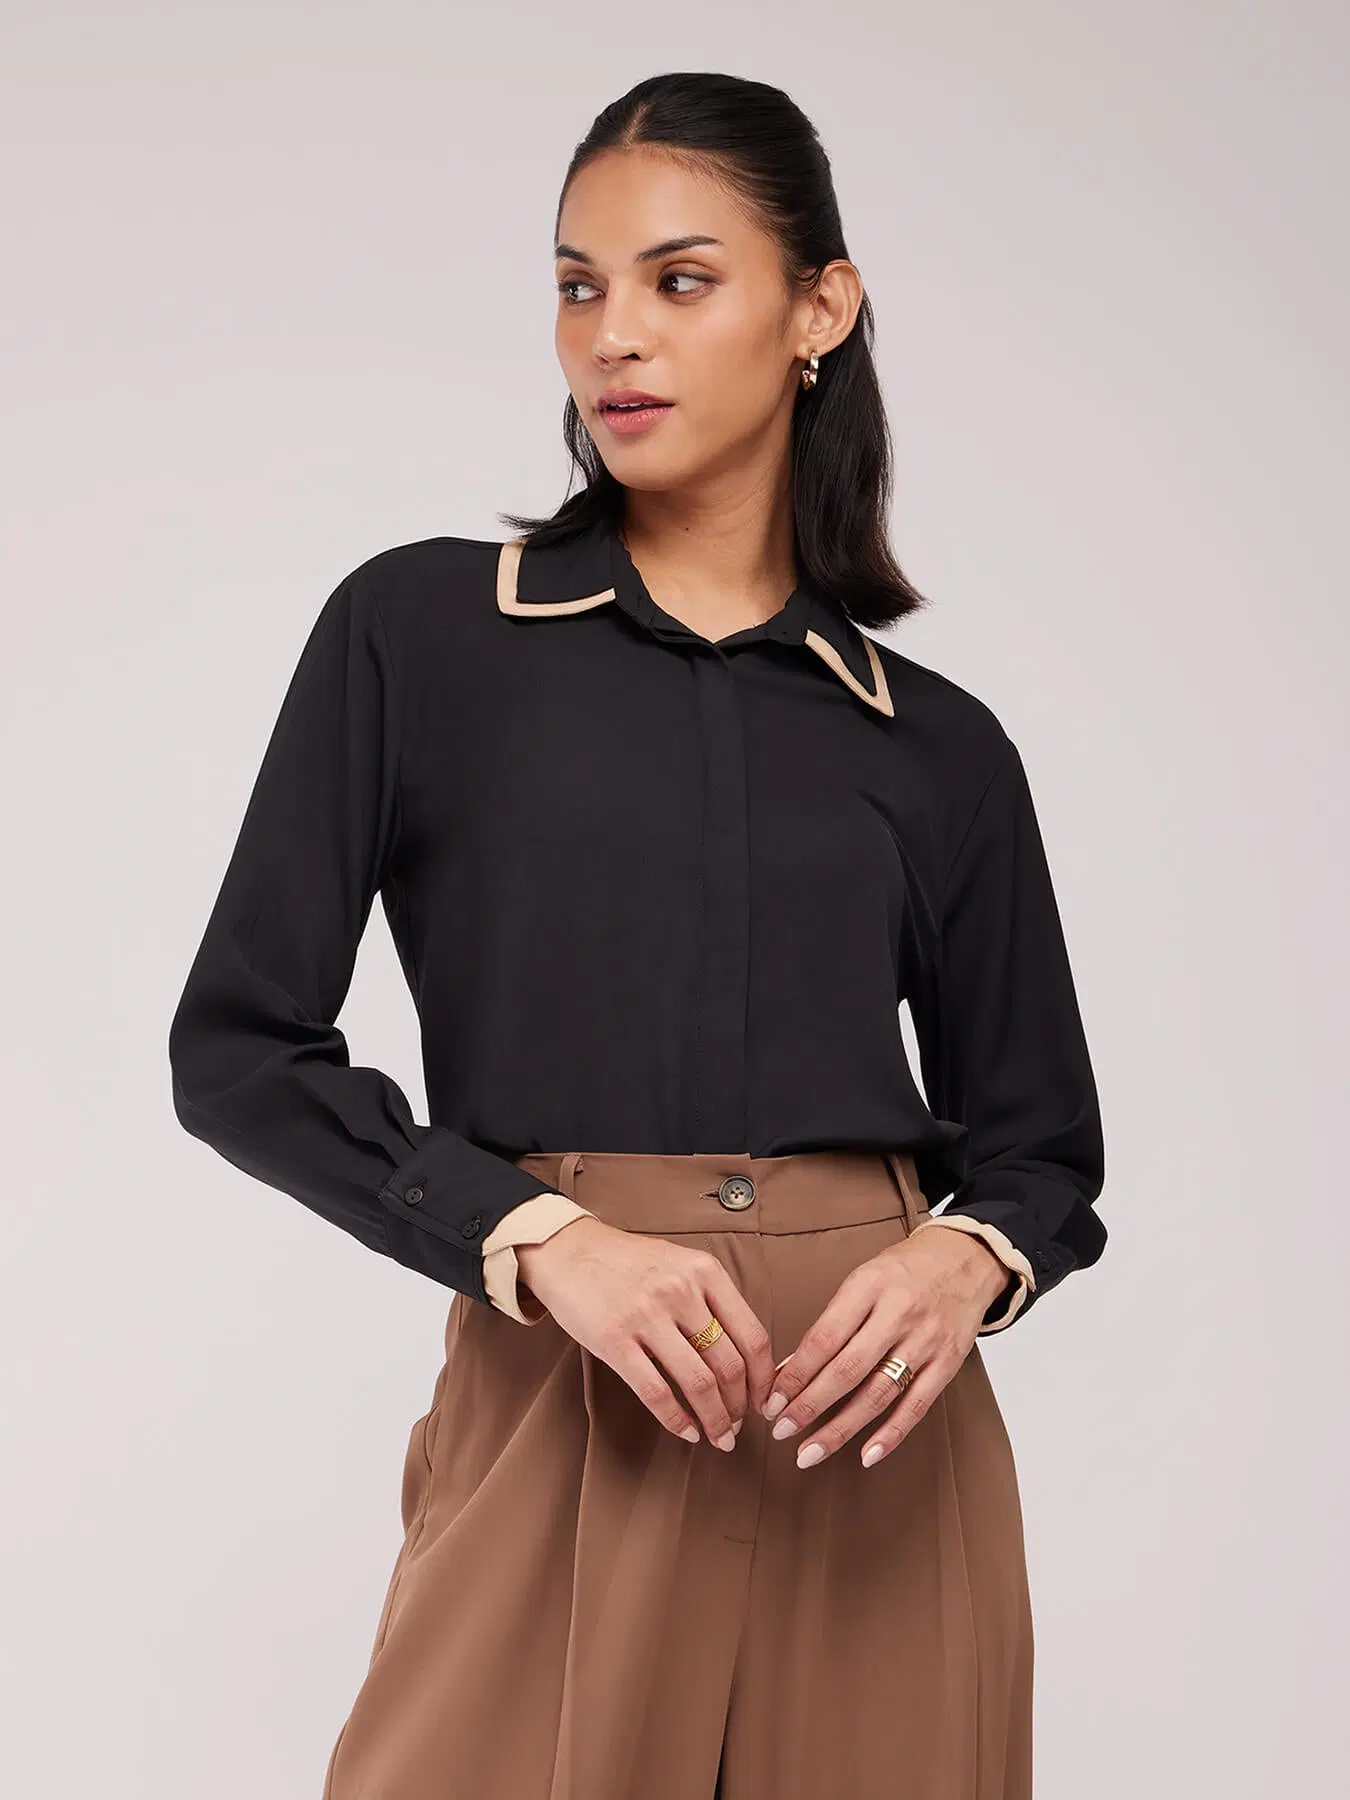
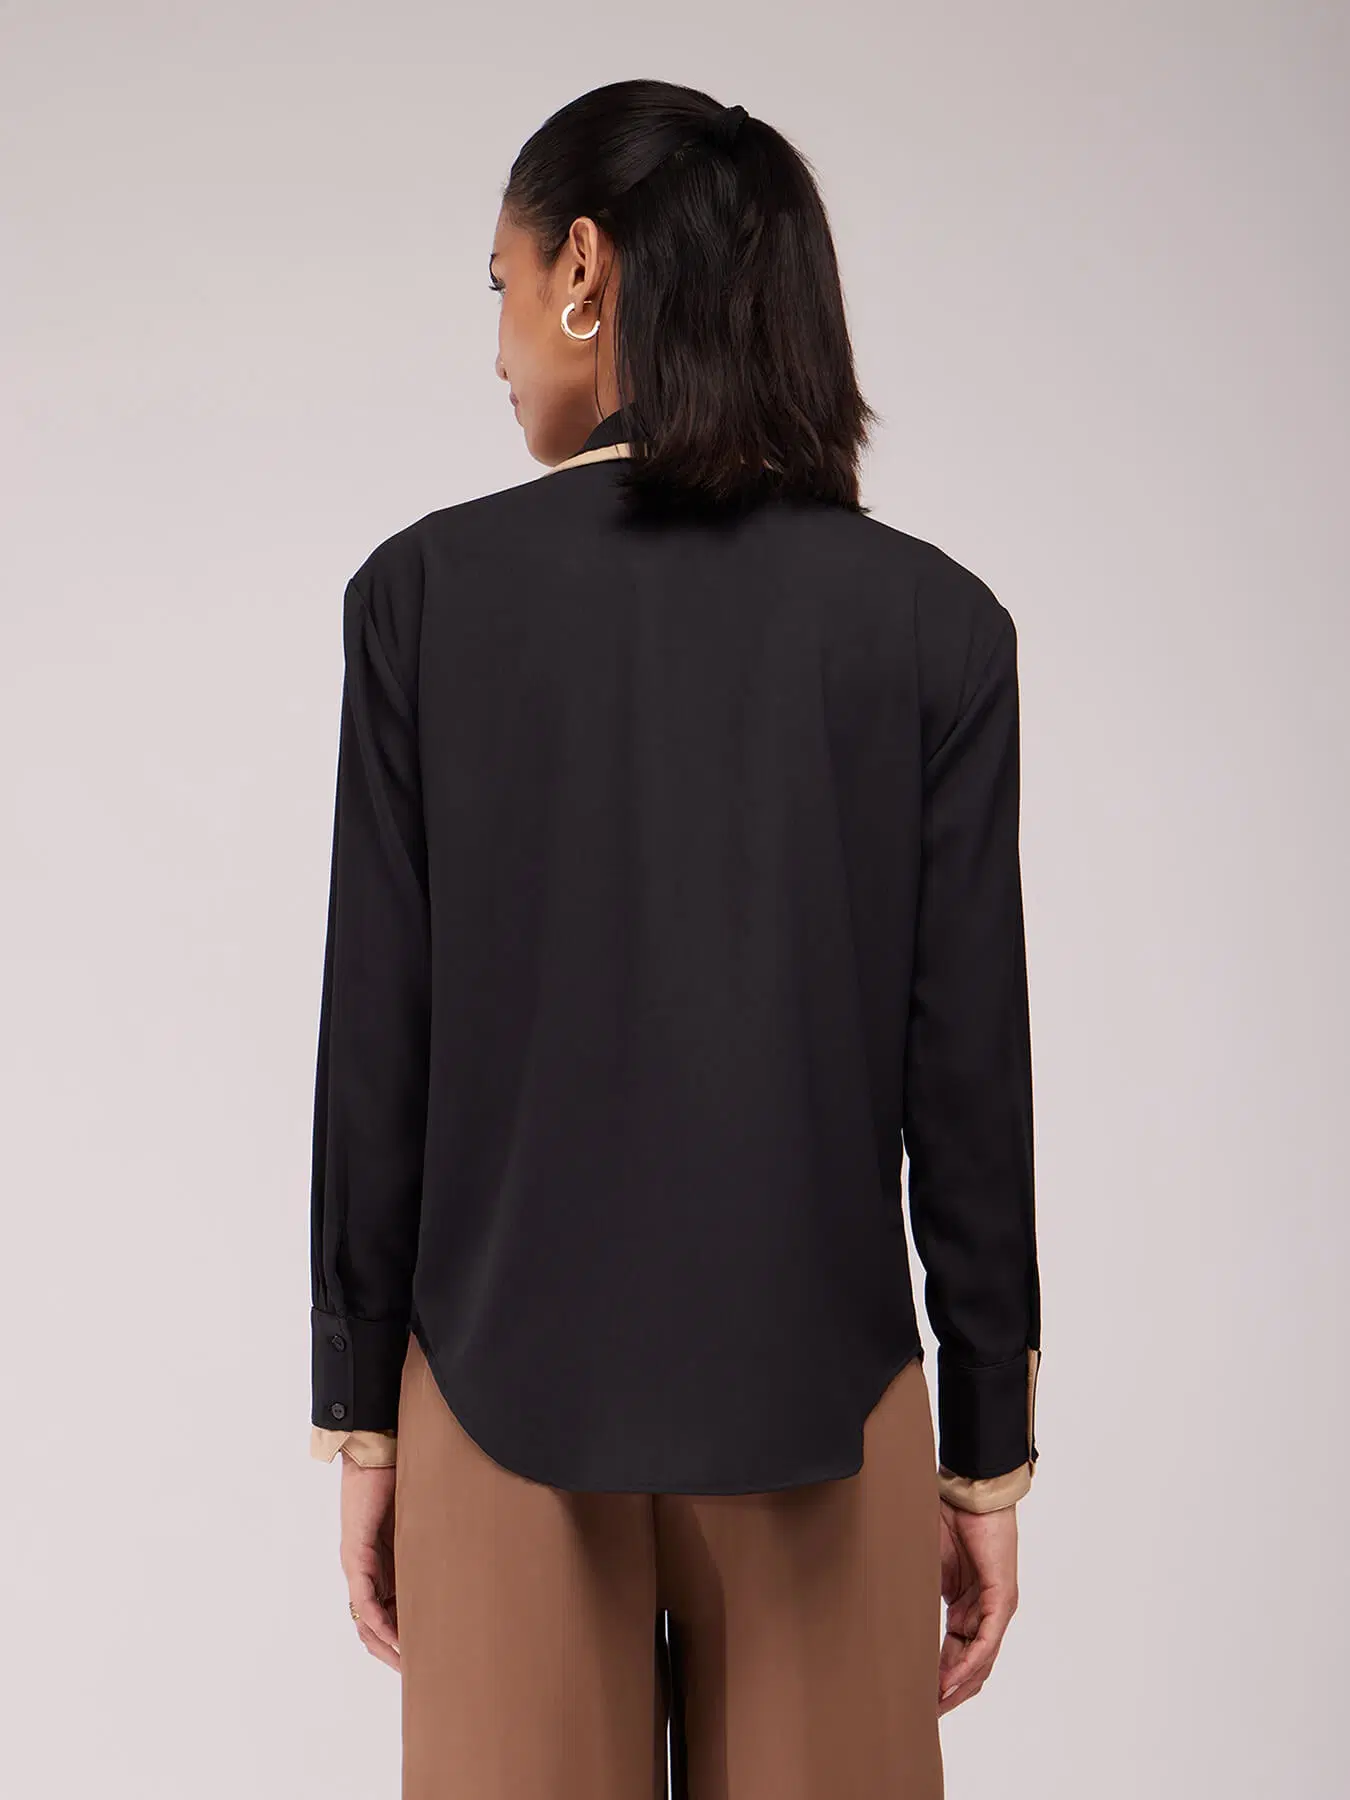
tops pants hoodies added

Changed region(s): [[0.1244, 0.0311, 0.84, 1.0]]

diff --git a/DINNOM/src/pages/WomenHoodies.jsx b/DINNOM/src/pages/WomenHoodies.jsx
@@ -1,0 +1,49 @@
+import React from 'react';
+import CategoriesExpand from '../components/CategoriesExpand';
+
+// Import images from 3_sweatshirts,hoodies,jackets,sweaters
+import ws1a from '../assets/women/3_sweatshirts,hoodies,jackets,sweaters/ws1a.avif';
+import ws1b from '../assets/women/3_sweatshirts,hoodies,jackets,sweaters/ws1b.avif';
+import ws2a from '../assets/women/3_sweatshirts,hoodies,jackets,sweaters/ws2a.webp';
+import ws2b from '../assets/women/3_sweatshirts,hoodies,jackets,sweaters/ws2b.webp';
+import ws3a from '../assets/women/3_sweatshirts,hoodies,jackets,sweaters/ws3a.avif';
+import ws3b from '../assets/women/3_sweatshirts,hoodies,jackets,sweaters/ws3b.avif';
+import ws4a from '../assets/women/3_sweatshirts,hoodies,jackets,sweaters/ws4a.avif';
+import ws4b from '../assets/women/3_sweatshirts,hoodies,jackets,sweaters/ws4b.avif';
+import ws5a from '../assets/women/3_sweatshirts,hoodies,jackets,sweaters/ws5a.webp';
+import ws5b from '../assets/women/3_sweatshirts,hoodies,jackets,sweaters/ws5b.webp';
+import ws6a from '../assets/women/3_sweatshirts,hoodies,jackets,sweaters/ws6a.webp';
+import ws6b from '../assets/women/3_sweatshirts,hoodies,jackets,sweaters/ws6b.webp';
+import ws7a from '../assets/women/3_sweatshirts,hoodies,jackets,sweaters/ws7a.jpg';
+import ws7b from '../assets/women/3_sweatshirts,hoodies,jackets,sweaters/ws7b.jpg';
+import ws8a from '../assets/women/3_sweatshirts,hoodies,jackets,sweaters/ws8a.webp';
+import ws8b from '../assets/women/3_sweatshirts,hoodies,jackets,sweaters/ws8b.webp';
+import ws9a from '../assets/women/3_sweatshirts,hoodies,jackets,sweaters/ws9a.webp';
+import ws9b from '../assets/women/3_sweatshirts,hoodies,jackets,sweaters/ws9b.webp';
+import ws10a from '../assets/women/3_sweatshirts,hoodies,jackets,sweaters/ws10a.webp';
+import ws10b from '../assets/women/3_sweatshirts,hoodies,jackets,sweaters/ws10b.webp';
+import ws11a from '../assets/women/3_sweatshirts,hoodies,jackets,sweaters/ws11a.webp';
+import ws11b from '../assets/women/3_sweatshirts,hoodies,jackets,sweaters/ws11b.webp';
+import ws12a from '../assets/women/3_sweatshirts,hoodies,jackets,sweaters/ws12a.webp';
+import ws12b from '../assets/women/3_sweatshirts,hoodies,jackets,sweaters/ws12b.webp';
+
+const womenHoodies = [
+  { id: 1, name: 'Minimal Zip-Up Hoodie', price: 2600, image: ws1a, hoverImage: ws1b },
+  { id: 2, name: 'Cropped Hoodie with Corset Detail', price: 3200, image: ws2a, hoverImage: ws2b },
+  { id: 3, name: 'Everyday Drawstring Hoodie', price: 2600, image: ws3a, hoverImage: ws3b },
+  { id: 4, name: 'Cropped Zip Hoodie', price: 2500, image: ws4a, hoverImage: ws4b },
+  { id: 5, name: 'Zipped Leather Jacket', price: 2800, image: ws5a, hoverImage: ws5b },
+  { id: 6, name: 'Versatile Button-Up Shacket', price: 2700, image: ws6a, hoverImage: ws6b },
+  { id: 7, name: 'Basic Everyday Oversized Hoodie', price: 2200, image: ws7a, hoverImage: ws7b },
+  { id: 8, name: 'Zippered Streetwear Hoodie', price: 2900, image: ws8a, hoverImage: ws8b },
+  { id: 9, name: 'Textured V-neck Knit Cardigan', price: 3000, image: ws9a, hoverImage: ws9b },
+  { id: 10, name: 'Cropped Cable Knit Sweater', price: 3100, image: ws10a, hoverImage: ws10b },
+  { id: 11, name: 'Oversized Pullover Hoodie', price: 3300, image: ws11a, hoverImage: ws11b },
+  { id: 12, name: 'Sporty Graphic Hoodie', price: 2400, image: ws12a, hoverImage: ws12b },
+];
+
+const WomenHoodies = () => {
+  return <CategoriesExpand products={womenHoodies} />;
+};
+
+export default WomenHoodies;

diff --git a/DINNOM/src/pages/WomenTeesTops.jsx b/DINNOM/src/pages/WomenTeesTops.jsx
@@ -1,0 +1,50 @@
+import React from 'react';
+import CategoriesExpand from '../components/CategoriesExpand';
+
+//Import images
+import wt1a from '../assets/women/1_shirts,tops,tees/wt1a.webp';
+import wt1b from '../assets/women/1_shirts,tops,tees/wt1b.webp';
+import wt2a from '../assets/women/1_shirts,tops,tees/wt2a.webp';
+import wt2b from '../assets/women/1_shirts,tops,tees/wt2b.webp';
+import wt3a from '../assets/women/1_shirts,tops,tees/wt3a.avif';
+import wt3b from '../assets/women/1_shirts,tops,tees/wt3b.avif';
+import wt4a from '../assets/women/1_shirts,tops,tees/wt4a.webp';
+import wt4b from '../assets/women/1_shirts,tops,tees/wt4b.webp';
+import wt5a from '../assets/women/1_shirts,tops,tees/wt5a.webp';
+import wt5b from '../assets/women/1_shirts,tops,tees/wt5b.webp';
+import wt6a from '../assets/women/1_shirts,tops,tees/wt6a.avif';
+import wt6b from '../assets/women/1_shirts,tops,tees/wt6b.avif';
+import wt7a from '../assets/women/1_shirts,tops,tees/wt7a.avif';
+import wt7b from '../assets/women/1_shirts,tops,tees/wt7b.avif';
+import wt8a from '../assets/women/1_shirts,tops,tees/wt8a.avif';
+import wt8b from '../assets/women/1_shirts,tops,tees/wt8b.avif';
+import wt9a from '../assets/women/1_shirts,tops,tees/wt9a.webp';
+import wt9b from '../assets/women/1_shirts,tops,tees/wt9b.webp';
+import wt10a from '../assets/women/1_shirts,tops,tees/wt10a.avif';
+import wt10b from '../assets/women/1_shirts,tops,tees/wt10b.avif';
+import wt11a from '../assets/women/1_shirts,tops,tees/wt11a.webp';
+import wt11b from '../assets/women/1_shirts,tops,tees/wt11b.webp';
+import wt12a from '../assets/women/1_shirts,tops,tees/wt12a.webp';
+import wt12b from '../assets/women/1_shirts,tops,tees/wt12b.webp';
+
+const womenTeesTops = [
+  { id: 1, name: 'Classic Black Polo Shirt', price: 1800, image: wt1a, hoverImage: wt1b },
+  { id: 2, name: 'Back Cutout Black Top', price: 1600, image: wt2a, hoverImage: wt2b },
+  { id: 3, name: 'Pearl Neck Detail Tee', price: 2000, image: wt3a, hoverImage: wt3b },
+  { id: 4, name: 'Sheer Sleeve V-Neck Shirt', price: 2200, image: wt4a, hoverImage: wt4b },
+  { id: 5, name: 'Black Collared Button Shirt', price: 2100, image: wt5a, hoverImage: wt5b },
+  { id: 6, name: 'Relaxed V-Neck Pullover', price: 1900, image: wt6a, hoverImage: wt6b },
+  { id: 7, name: 'Textured Collared Crop Top', price: 2500, image: wt7a, hoverImage: wt7b },
+  { id: 8, name: 'Asymmetric Drape Neck Sleeveless Top', price: 2700, image: wt8a, hoverImage: wt8b },
+  { id: 9, name: 'Button-Front Sleeveless Vest Top', price: 1600, image: wt9a, hoverImage: wt9b },
+  { id: 10, name: 'Peplum Strap Cami Top', price: 2400, image: wt10a, hoverImage: wt10b },
+  { id: 11, name: 'Satin Draped Side Top', price: 2600, image: wt11a, hoverImage: wt11b },
+  { id: 12, name: 'Black Collar Detail Shirt', price: 2300, image: wt12a, hoverImage: wt12b },
+];
+
+
+const WomenTeesTops = () => {
+  return <CategoriesExpand products={womenTeesTops} />;
+};
+
+export default WomenTeesTops;

diff --git a/DINNOM/src/pages/WomenPants.jsx b/DINNOM/src/pages/WomenPants.jsx
@@ -1,0 +1,50 @@
+import React from 'react';
+import CategoriesExpand from '../components/CategoriesExpand';
+
+// Import images from 2_pants,skirts
+import wp1a from '../assets/women/2_pants,skirts/wp1a.webp';
+import wp1b from '../assets/women/2_pants,skirts/wp1b.webp';
+import wp2a from '../assets/women/2_pants,skirts/wp2a.webp';
+import wp2b from '../assets/women/2_pants,skirts/wp2b.webp';
+import wp3a from '../assets/women/2_pants,skirts/wp3a.webp';
+import wp3b from '../assets/women/2_pants,skirts/wp3b.webp';
+import wp4a from '../assets/women/2_pants,skirts/wp4a.webp';
+import wp4b from '../assets/women/2_pants,skirts/wp4b.webp';
+import wp5a from '../assets/women/2_pants,skirts/wp5a.webp';
+import wp5b from '../assets/women/2_pants,skirts/wp5b.webp';
+import wp6a from '../assets/women/2_pants,skirts/wp6a.webp';
+import wp6b from '../assets/women/2_pants,skirts/wp6b.webp';
+import wp7a from '../assets/women/2_pants,skirts/wp7a.webp';
+import wp7b from '../assets/women/2_pants,skirts/wp7b.webp';
+import wp8a from '../assets/women/2_pants,skirts/wp8a.webp';
+import wp8b from '../assets/women/2_pants,skirts/wp8b.webp';
+import wp9a from '../assets/women/2_pants,skirts/wp9a.webp';
+import wp9b from '../assets/women/2_pants,skirts/wp9b.webp';
+import wp10a from '../assets/women/2_pants,skirts/wp10a.webp';
+import wp10b from '../assets/women/2_pants,skirts/wp10b.webp';
+import wp11a from '../assets/women/2_pants,skirts/wp11a.webp';
+import wp11b from '../assets/women/2_pants,skirts/wp11b.webp';
+import wp12a from '../assets/women/2_pants,skirts/wp12a.webp';
+import wp12b from '../assets/women/2_pants,skirts/wp12b.webp';
+
+
+const womenPants = [
+  { id: 1, name: 'Belted Straight Fit Skirt', price: 1800, image: wp1a, hoverImage: wp1b },
+  { id: 2, name: 'Ruched Bootcut Pants', price: 2300, image: wp2a, hoverImage: wp2b },
+  { id: 3, name: 'Solid Pleated Trousers', price: 2500, image: wp3a, hoverImage: wp3b },
+  { id: 4, name: 'Side Slit Office Pants', price: 2600, image: wp4a, hoverImage: wp4b },
+  { id: 5, name: 'Flared Palazzo Pants', price: 2400, image: wp5a, hoverImage: wp5b },
+  { id: 6, name: 'A-Line Mini Skirt', price: 2200, image: wp6a, hoverImage: wp6b },
+  { id: 7, name: 'Textured Flared Pants', price: 2900, image: wp7a, hoverImage: wp7b },
+  { id: 8, name: 'Pocket Utility Skirt', price: 2100, image: wp8a, hoverImage: wp8b },
+  { id: 9, name: 'Fringed Hem Skirt', price: 2500, image: wp9a, hoverImage: wp9b },
+  { id: 10, name: 'Satin Midi Pencil Skirt', price: 2700, image: wp10a, hoverImage: wp10b },
+  { id: 11, name: 'Relaxed Eyelet Pants', price: 3000, image: wp11a, hoverImage: wp11b },
+  { id: 12, name: 'Cargo Fit Relaxed Pants', price: 2600, image: wp12a, hoverImage: wp12b },
+];
+
+const WomenPants = () => {
+  return <CategoriesExpand products={womenPants} />;
+};
+
+export default WomenPants;

diff --git a/DINNOM/src/components/women/WomenCategoryShowcase1.jsx b/DINNOM/src/components/women/WomenCategoryShowcase1.jsx
@@ -1,8 +1,15 @@
 import React from "react";
+import { useNavigate } from "react-router-dom";
 import img1 from "../../assets/women/images/img1.png"; // Main model image
 import img2 from "../../assets/women/images/img2.png";  // Label image
 
 const WomenCategoryShowcase1 = () => {
+  const navigate = useNavigate();
+
+  const handleClick = () => {
+    navigate("/women/tops");
+  };
+
   return (
     <div className="relative w-full h-[680px] bg-white overflow-hidden">
       {/* Left model image */}
@@ -31,7 +38,9 @@ const WomenCategoryShowcase1 = () => {
           Unveil your everyday elegance with our handpicked collection of stylish tops, versatile shirts, and comfy tees — perfect for everything from brunch to boardroom.
         </p>
 
-        <button className="mt-6 px-8 py-3 bg-black text-white text-sm tracking-wide font-semibold uppercase rounded-full hover:bg-gray-900 transition-all">
+        <button 
+        onClick={handleClick}
+        className="mt-6 px-8 py-3 bg-black text-white text-sm tracking-wide font-semibold uppercase rounded-full hover:bg-gray-900 transition-all">
           DISCOVER COLLECTION
         </button>
       </div>

diff --git a/DINNOM/src/components/women/WomenCategoryShowcase3.jsx b/DINNOM/src/components/women/WomenCategoryShowcase3.jsx
@@ -1,8 +1,14 @@
 import React from "react";
+import { useNavigate } from "react-router-dom";
 import imgLeft from "../../assets/women/images/hoodies-left.jpeg";  // Model image on left
 import imgLabel from "../../assets/women/images/brand-label.png";  // Bottom right label image
 
 const WomenCategoryShowcase3 = () => {
+ const navigate = useNavigate();
+
+  const handleClick = () => {
+    navigate("/women/hoodies");
+  };
   return (
     <div className="relative w-full h-[680px] bg-white overflow-hidden">
       {/* Left model image - full height */}
@@ -31,7 +37,9 @@ const WomenCategoryShowcase3 = () => {
         </p>
 
         {/* Rounded button */}
-        <button className="bg-black text-white px-8 py-3 rounded-full text-xs tracking-widest font-semibold hover:bg-gray-900 uppercase">
+        <button 
+        onClick={handleClick}
+        className="bg-black text-white px-8 py-3 rounded-full text-xs tracking-widest font-semibold hover:bg-gray-900 uppercase">
           DISCOVER COLLECTION
         </button>
       </div>

diff --git a/DINNOM/src/components/women/WomenCategoryShowcase2.jsx b/DINNOM/src/components/women/WomenCategoryShowcase2.jsx
@@ -1,4 +1,5 @@
 import React from "react";
+import { useNavigate } from "react-router-dom";
 import pantsImg from "../../assets/women/images/pants.jpeg"; // Main image shown once
 
 const categories = [
@@ -20,6 +21,12 @@ const categories = [
 ];
 
 const WomenCategoryShowcase2 = () => {
+  const navigate = useNavigate();
+
+  const handleClick = () => {
+    navigate("/women/pants");
+  };
+
   return (
     <div className="w-full bg-white px-8 md:px-16 py-16">
       {/* Show single big image */}
@@ -43,7 +50,9 @@ const WomenCategoryShowcase2 = () => {
 
       {/* Single Discover Collection button */}
       <div className="flex justify-center">
-        <button className="bg-black text-white px-10 py-3 rounded-full text-sm font-semibold uppercase tracking-wide hover:bg-gray-900">
+        <button 
+        onClick={handleClick}
+        className="bg-black text-white px-10 py-3 rounded-full text-sm font-semibold uppercase tracking-wide hover:bg-gray-900">
           Discover Collection
         </button>
       </div>

diff --git a/DINNOM/src/App.jsx b/DINNOM/src/App.jsx
@@ -11,6 +11,9 @@ import CustomCursor from './components/CustomCursor';
 import Men from "./pages/Men";
 import Women from './pages/Women';
 import WomenDresses from './pages/WomenDresses';
+import WomenTeesTops from './pages/WomenTeesTops';
+import WomenPants from './pages/WomenPants';
+import WomenHoodies from './pages/WomenHoodies';
 
 
 import Intro from './components/Intro';
@@ -54,6 +57,9 @@ function App() {
           <Route path="/men" element={<Men />} />
           <Route path="/women" element={<Women />} />
           <Route path="/women/dresses" element={<WomenDresses />} />
+          <Route path="/women/tops" element={<WomenTeesTops />} />
+          <Route path="/women/pants" element={<WomenPants />} />
+          <Route path="/women/hoodies" element={<WomenHoodies />} />
         </Routes>
       </div>
 
